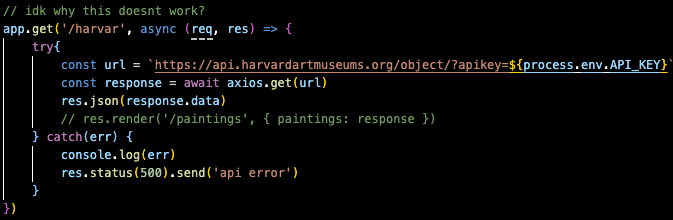
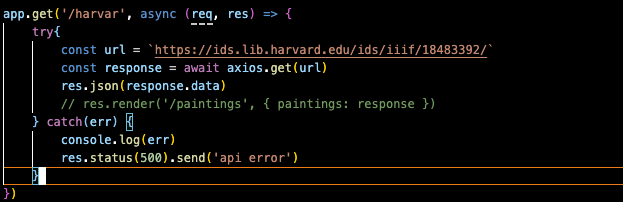
edit readme more

Changed region(s): [[0.0, 0.0297, 1.0, 0.9802]]

diff --git a/index.js b/index.js
@@ -69,10 +69,9 @@ app.get('/', (req, res) => {
 
 })
 
-// idk why this doesnt work?
 app.get('/harvar', async (req, res) => {
     try{
-        const url = `https://api.harvardartmuseums.org/object/?apikey=${process.env.API_KEY}`
+        const url = `https://ids.lib.harvard.edu/ids/iiif/18483392/`
         const response = await axios.get(url)
         res.json(response.data)
         // res.render('/paintings', { paintings: response })
